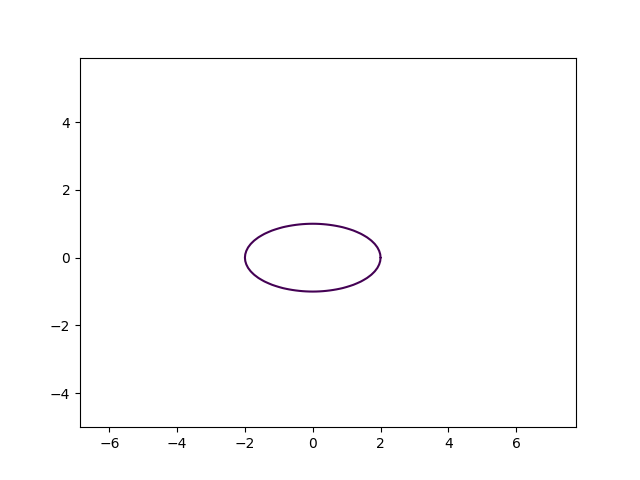
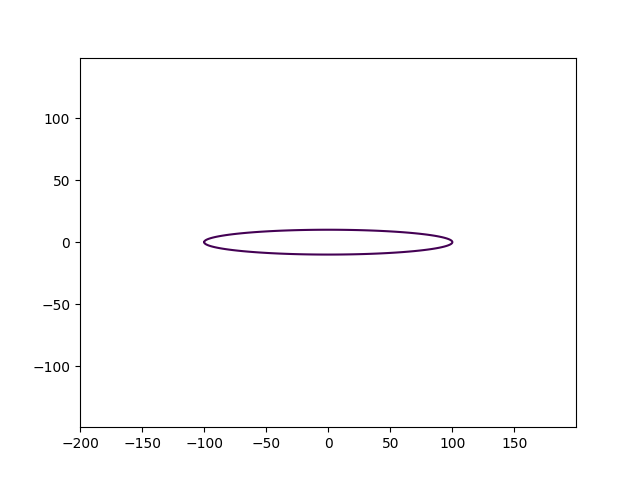
доделал задачи основной части

diff --git a/task_4.py b/task_4.py
@@ -1,0 +1,44 @@
+import matplotlib.pyplot as plt
+import numpy as np
+
+def convertToDecart(alpha, r):
+    return (r * np.cos(alpha), r * np.sin(alpha))
+
+def Log(k):
+    alpha = np.arange(0, 8 * np.pi, 0.01)
+    r = np.pow(np.e, k * alpha)
+    return(alpha, r)
+
+def Arch(k):
+    alpha = np.arange(0, 8 * np.pi, 0.01)
+    r = k * alpha
+    return(alpha, r)
+
+def Rod(k):
+    alpha = np.arange(0.01, 8 * np.pi, 0.01)
+    r = k / np.sqrt(alpha)
+    return(alpha, r)
+def Rose(k):
+    alpha = np.arange(0, 8 * np.pi, 0.01)
+    r = np.sin(k * alpha)
+    return(alpha, r)
+
+def ChangeFunc():
+    print('Доступны функции:\n1 - логарифмическая спираль\n2 - спираль Архимеда\n3 - спираль "Жезл"\n4 - роза')
+    answer = int(input('Введите номер функции: '))
+    k = float(input('Введите коэффицент: '))
+    if(answer == 1):
+        polar = Log(k)
+    elif(answer == 2):
+        polar = Arch(k)
+    elif(answer == 3):
+        polar = Rod(k)
+    elif(answer == 4):
+        polar = Rose(k)
+    decart = convertToDecart(polar[0], polar[1])
+    plt.plot(decart[0], decart[1])
+
+if(__name__ == '__main__'):
+    ChangeFunc()
+    plt.axis('equal')
+    plt.savefig('task_4.png')

diff --git a/plotter.py b/plotter.py
@@ -1,0 +1,37 @@
+import matplotlib.pyplot as plt
+import numpy as np
+
+def rect(x=0, y=0, dx=1, dy=1, **kwargs):
+    CColor, CLabel, cMarker, CMs = kwargs.get('color'), kwargs.get('label'), kwargs.get('marker'), kwargs.get('ms')
+    plt.plot([x, x+dx, x+dx, x, x], [y, y, y+dy, y+dy, y], color=CColor, label=CLabel, marker=cMarker, ms=CMs)
+
+def circle(x0=0, y0=0, R=1, pointNum=10000, **kwargs):
+    CColor = kwargs.get('color')
+
+    x = np.arange(-2*R + x0, 2*R + x0, 4*R/pointNum)
+    y = np.arange(-2*R + y0, 2*R + y0, 4*R/pointNum)
+
+    X, Y = np.meshgrid(x, y)
+    fxy = (X - x0)**2 + (Y - y0)**2 - (R)**2
+
+    plt.contour(X, Y, fxy, levels=[0], colors=CColor)
+
+def ellipse(x0=0, y0=0, dx=1, dy=1, pointNum=10000, **kwargs):
+    CColor = kwargs.get('color')
+
+    x = np.arange(-2*dx + x0, 2*dx + x0, 4*dx/pointNum)
+    y = np.arange(-2*dy + y0, 2*dy + y0, 4*dx/pointNum)
+
+    X, Y = np.meshgrid(x, y)
+    fxy = ((X-x0)**2)/(dx**2) + ((Y-y0)**2)/(dy**2)
+
+    plt.contour(X, Y, fxy, levels=[1], colors=CColor)
+
+if(__name__ == "__main__"):
+    plt.axis('equal')
+    plt.grid()
+    #help(plt.contour)
+    #rect(0, 0, 100, 20)
+    #circle(10,5,10, 16)
+    ellipse(10, 5, 10, 5, 16)
+    plt.savefig("fig")

diff --git a/task_3.py b/task_3.py
@@ -1,21 +1,10 @@
 import matplotlib.pyplot as plt
-import numpy as np
-
-def ellipse(dX=5, N=1):
-    dY = 5
-    x = np.arange(-dX, dX+1, 0.1)
-    y = np.arange(-dY, dY+1, 0.1)
-
-    X, Y = np.meshgrid(x, y )
-
-    fxy = (X**2)/(2**2) + (Y**2)/(1**2)
-
-    plt.contour(X, Y, fxy, levels=[1])
-    plt.axis('equal')
-
-    plt.savefig('task_3.png')
+import plotter as pl
+    
 
 if(__name__ == '__main__'):
     dX = int(input('Введите предел изменения переменной x: '))
     N = int(input('Введите количество точек, разбивающий эллипс: '))
-    ellipse(dX, N)
+    pl.ellipse(0, 0, dX, 10, N)
+    plt.axis('equal')
+    plt.savefig('task_3.png')

diff --git a/task_2.py b/task_2.py
@@ -1,7 +1,7 @@
 import matplotlib.pyplot as plt
 import numpy as np
 
-def parabola(dX=5, N=1):
+def gyperbola(dX=5, N=1):
     xm = np.arange(dX * (-1), -0.01, dX / N)
     xp = np.arange(0.01, dX, dX / N)
     ym = 0.5/xm
@@ -13,5 +13,5 @@ def parabola(dX=5, N=1):
 
 if(__name__ == '__main__'):
     dX = int(input('Введите предел изменения переменной x: '))
-    N = float(input('Введите количество точек, разбивающий параболу: '))
-    parabola(dX, N)
+    N = float(input('Введите количество точек, разбивающий гиперболу: '))
+    gyperbola(dX, N)

diff --git a/task_1.py b/task_1.py
@@ -1,9 +1,6 @@
 import matplotlib.pyplot as plt
+import plotter as pl
 
-def square(x=1, y=1):
-    plt.plot([x, x+4, x+4, x, x],[y, y, y+4, y+4, y], marker='o')
-    plt.axis('equal')
-    plt.savefig('task_1.png')
-
-if(__name__ == '__main__'):
-    square()
+pl.rect(1, 1, 4, 4)
+plt.axis('equal')
+plt.savefig('task_1.png')
